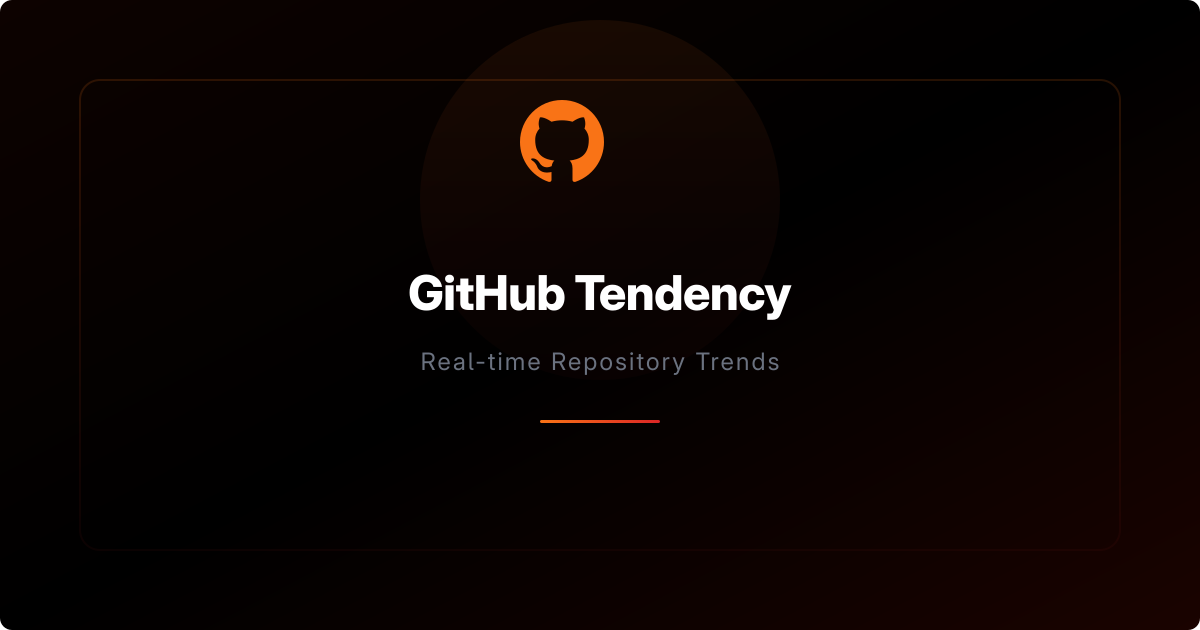
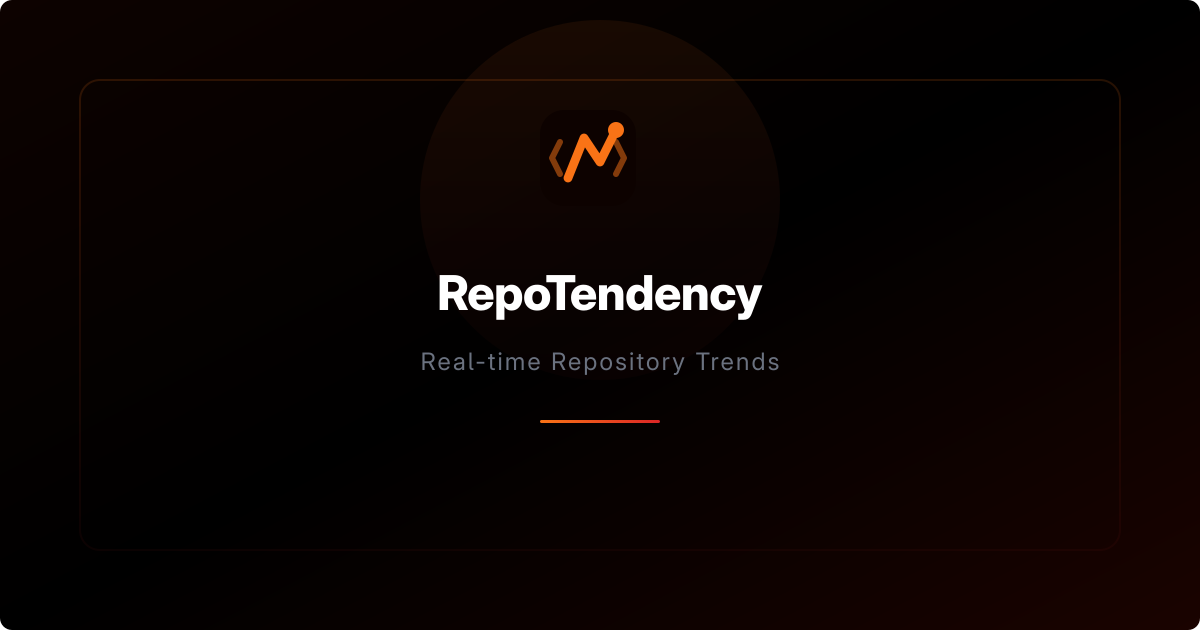
Changing identity

Changed region(s): [[0.3392, 0.4222, 0.6783, 0.5127], [0.4317, 0.1508, 0.5242, 0.3016]]

diff --git a/src/components/Footer.tsx b/src/components/Footer.tsx
@@ -7,10 +7,14 @@ export default function Footer() {
         <div className="grid grid-cols-1 md:grid-cols-3 gap-8">
           <div>
             <div className="flex items-center gap-2 mb-3">
-              <svg viewBox="0 0 24 24" className="w-5 h-5 fill-orange-500" aria-hidden="true">
-                <path d="M12 0C5.374 0 0 5.373 0 12c0 5.302 3.438 9.8 8.207 11.387.599.111.793-.261.793-.577v-2.234c-3.338.726-4.033-1.416-4.033-1.416-.546-1.387-1.333-1.756-1.333-1.756-1.089-.745.083-.729.083-.729 1.205.084 1.839 1.237 1.839 1.237 1.07 1.834 2.807 1.304 3.492.997.107-.775.418-1.305.762-1.604-2.665-.305-5.467-1.334-5.467-5.931 0-1.311.469-2.381 1.236-3.221-.124-.303-.535-1.524.117-3.176 0 0 1.008-.322 3.301 1.23A11.509 11.509 0 0112 5.803c1.02.005 2.047.138 3.006.404 2.291-1.552 3.297-1.23 3.297-1.23.653 1.653.242 2.874.118 3.176.77.84 1.235 1.911 1.235 3.221 0 4.609-2.807 5.624-5.479 5.921.43.372.823 1.102.823 2.222v3.293c0 .319.192.694.801.576C20.566 21.797 24 17.3 24 12c0-6.627-5.373-12-12-12z" />
+              <svg viewBox="0 0 24 24" className="w-5 h-5" aria-hidden="true">
+                <rect width="24" height="24" rx="6" fill="#0d0200"/>
+                <path d="M7 17L11 7L15 13L19 5" stroke="#f97316" strokeWidth="2.2" strokeLinecap="round" strokeLinejoin="round" fill="none"/>
+                <circle cx="19" cy="5" r="2" fill="#f97316"/>
+                <path d="M5 8L3 12L5 16" stroke="#f97316" strokeWidth="1.5" strokeLinecap="round" strokeLinejoin="round" fill="none" opacity="0.5"/>
+                <path d="M19 8L21 12L19 16" stroke="#f97316" strokeWidth="1.5" strokeLinecap="round" strokeLinejoin="round" fill="none" opacity="0.5"/>
               </svg>
-              <span className="font-semibold text-orange-500">GitHub Tendency</span>
+              <span className="font-semibold text-orange-500">RepoTendency</span>
             </div>
             <p className="text-gray-500 text-sm leading-relaxed">
               Real-time GitHub repository trends and analytics. Track what's hot in the open-source world.
@@ -38,7 +42,7 @@ export default function Footer() {
 
         <div className="border-t border-gray-800/50 mt-8 pt-6 flex flex-col sm:flex-row justify-between items-center gap-4">
           <p className="text-gray-600 text-xs">
-            &copy; {new Date().getFullYear()} GitHub Tendency. Built for the open-source community.
+            &copy; {new Date().getFullYear()} RepoTendency. Built for the open-source community.
           </p>
           <div className="flex items-center gap-4 text-gray-600 text-xs">
             <span>Data refreshed hourly via cron</span>

diff --git a/src/App.tsx b/src/App.tsx
@@ -89,10 +89,14 @@ function App() {
     <div className="min-h-screen text-gray-100 flex flex-col">
       <nav className="bg-black/50 backdrop-blur-xl border-b border-orange-900/30 px-4 sm:px-6 py-3 flex items-center gap-3 sm:gap-6 sticky top-0 z-50 flex-wrap">
         <h1 className="text-base sm:text-lg font-bold text-orange-500 flex items-center gap-2 shrink-0">
-          <svg viewBox="0 0 24 24" className="w-5 h-5 sm:w-6 sm:h-6 fill-current" aria-hidden="true">
-            <path d="M12 0C5.374 0 0 5.373 0 12c0 5.302 3.438 9.8 8.207 11.387.599.111.793-.261.793-.577v-2.234c-3.338.726-4.033-1.416-4.033-1.416-.546-1.387-1.333-1.756-1.333-1.756-1.089-.745.083-.729.083-.729 1.205.084 1.839 1.237 1.839 1.237 1.07 1.834 2.807 1.304 3.492.997.107-.775.418-1.305.762-1.604-2.665-.305-5.467-1.334-5.467-5.931 0-1.311.469-2.381 1.236-3.221-.124-.303-.535-1.524.117-3.176 0 0 1.008-.322 3.301 1.23A11.509 11.509 0 0112 5.803c1.02.005 2.047.138 3.006.404 2.291-1.552 3.297-1.23 3.297-1.23.653 1.653.242 2.874.118 3.176.77.84 1.235 1.911 1.235 3.221 0 4.609-2.807 5.624-5.479 5.921.43.372.823 1.102.823 2.222v3.293c0 .319.192.694.801.576C20.566 21.797 24 17.3 24 12c0-6.627-5.373-12-12-12z" />
+          <svg viewBox="0 0 24 24" className="w-5 h-5 sm:w-6 sm:h-6" aria-hidden="true">
+            <rect width="24" height="24" rx="6" fill="#0d0200"/>
+            <path d="M7 17L11 7L15 13L19 5" stroke="#f97316" strokeWidth="2.2" strokeLinecap="round" strokeLinejoin="round" fill="none"/>
+            <circle cx="19" cy="5" r="2" fill="#f97316"/>
+            <path d="M5 8L3 12L5 16" stroke="#f97316" strokeWidth="1.5" strokeLinecap="round" strokeLinejoin="round" fill="none" opacity="0.5"/>
+            <path d="M19 8L21 12L19 16" stroke="#f97316" strokeWidth="1.5" strokeLinecap="round" strokeLinejoin="round" fill="none" opacity="0.5"/>
           </svg>
-          <span className="hidden sm:inline">GitHub Tendency</span>
+          <span className="hidden sm:inline">RepoTendency</span>
         </h1>
         <NavLink to="/" end className={({ isActive }) => `text-sm sm:text-base pb-1 border-b-2 transition-colors ${isActive ? 'text-white border-orange-500' : 'text-gray-500 hover:text-orange-400 border-transparent'}`}>
           Dashboard

diff --git a/src/components/WelcomeModal.tsx b/src/components/WelcomeModal.tsx
@@ -10,12 +10,16 @@ export default function WelcomeModal({ onDismiss }: WelcomeModalProps) {
       <div className="w-full max-w-lg my-auto bg-black/80 backdrop-blur-2xl rounded-2xl border border-orange-500/20 shadow-2xl shadow-orange-600/10 p-6 sm:p-8 animate-fade-up">
         <div className="flex items-center gap-3 mb-4">
           <div className="w-10 h-10 rounded-xl bg-orange-500/10 border border-orange-500/20 flex items-center justify-center">
-            <svg viewBox="0 0 24 24" className="w-6 h-6 fill-orange-500" aria-hidden="true">
-              <path d="M12 0C5.374 0 0 5.373 0 12c0 5.302 3.438 9.8 8.207 11.387.599.111.793-.261.793-.577v-2.234c-3.338.726-4.033-1.416-4.033-1.416-.546-1.387-1.333-1.756-1.333-1.756-1.089-.745.083-.729.083-.729 1.205.084 1.839 1.237 1.839 1.237 1.07 1.834 2.807 1.304 3.492.997.107-.775.418-1.305.762-1.604-2.665-.305-5.467-1.334-5.467-5.931 0-1.311.469-2.381 1.236-3.221-.124-.303-.535-1.524.117-3.176 0 0 1.008-.322 3.301 1.23A11.509 11.509 0 0112 5.803c1.02.005 2.047.138 3.006.404 2.291-1.552 3.297-1.23 3.297-1.23.653 1.653.242 2.874.118 3.176.77.84 1.235 1.911 1.235 3.221 0 4.609-2.807 5.624-5.479 5.921.43.372.823 1.102.823 2.222v3.293c0 .319.192.694.801.576C20.566 21.797 24 17.3 24 12c0-6.627-5.373-12-12-12z" />
+            <svg viewBox="0 0 24 24" className="w-6 h-6" aria-hidden="true">
+              <rect width="24" height="24" rx="6" fill="#0d0200"/>
+              <path d="M7 17L11 7L15 13L19 5" stroke="#f97316" strokeWidth="2.2" strokeLinecap="round" strokeLinejoin="round" fill="none"/>
+              <circle cx="19" cy="5" r="2" fill="#f97316"/>
+              <path d="M5 8L3 12L5 16" stroke="#f97316" strokeWidth="1.5" strokeLinecap="round" strokeLinejoin="round" fill="none" opacity="0.5"/>
+              <path d="M19 8L21 12L19 16" stroke="#f97316" strokeWidth="1.5" strokeLinecap="round" strokeLinejoin="round" fill="none" opacity="0.5"/>
             </svg>
           </div>
           <h2 className="text-xl sm:text-2xl font-bold bg-gradient-to-r from-orange-500 to-red-500 bg-clip-text text-transparent">
-            Welcome to GitHub Tendency
+            Welcome to RepoTendency
           </h2>
         </div>
 

diff --git a/index.html b/index.html
@@ -7,22 +7,22 @@
     <meta name="viewport" content="width=device-width, initial-scale=1.0" />
     <meta name="description" content="Track trending GitHub repositories in real-time. Monitor stars, forks, languages, and keywords across the open-source ecosystem." />
     <meta name="robots" content="index, follow" />
-    <link rel="canonical" href="https://github-tendency.vercel.app/" />
+    <link rel="canonical" href="https://repotendency.pro/" />
 
-    <meta property="og:title" content="GitHub Tendency — Real-time Repository Trends" />
+    <meta property="og:title" content="RepoTendency — Real-time Repository Trends" />
     <meta property="og:description" content="Track trending GitHub repositories in real-time. Monitor stars, forks, languages, and keywords across the open-source ecosystem." />
-    <meta property="og:url" content="https://github-tendency.vercel.app/" />
+    <meta property="og:url" content="https://repotendency.pro/" />
     <meta property="og:type" content="website" />
-    <meta property="og:image" content="https://github-tendency.vercel.app/og-image.png" />
+    <meta property="og:image" content="https://repotendency.pro/og-image.png" />
     <meta property="og:image:width" content="1200" />
     <meta property="og:image:height" content="630" />
 
     <meta name="twitter:card" content="summary_large_image" />
-    <meta name="twitter:title" content="GitHub Tendency — Real-time Repository Trends" />
+    <meta name="twitter:title" content="RepoTendency — Real-time Repository Trends" />
     <meta name="twitter:description" content="Track trending GitHub repositories in real-time. Monitor stars, forks, languages, and keywords across the open-source ecosystem." />
-    <meta name="twitter:image" content="https://github-tendency.vercel.app/og-image.png" />
+    <meta name="twitter:image" content="https://repotendency.pro/og-image.png" />
 
-    <title>GitHub Tendency — Real-time Repository Trends</title>
+    <title>RepoTendency — Real-time Repository Trends</title>
   </head>
   <body>
     <div id="root"></div>

diff --git a/src/pages/Dashboard.tsx b/src/pages/Dashboard.tsx
@@ -48,7 +48,7 @@ function CustomTooltip({ active, payload, label }: { active?: boolean; payload?:
   return null
 }
 
-const WELCOME_KEY = 'github-tendency-welcome-dismissed-at'
+const WELCOME_KEY = 'repotendency-welcome-dismissed-at'
 const WELCOME_INTERVAL_DAYS = 1
 
 function shouldShowWelcome(): boolean {
@@ -171,9 +171,9 @@ export default function Dashboard() {
     <div className="space-y-6 pb-8">
       {showWelcome && <WelcomeModal onDismiss={dismissWelcome} />}
       <Helmet>
-        <title>Dashboard — GitHub Tendency</title>
-        <meta property="og:title" content="Dashboard — GitHub Tendency" />
-        <meta name="twitter:title" content="Dashboard — GitHub Tendency" />
+        <title>Dashboard — RepoTendency</title>
+        <meta property="og:title" content="Dashboard — RepoTendency" />
+        <meta name="twitter:title" content="Dashboard — RepoTendency" />
       </Helmet>
       <div className="flex items-center gap-4">
         <div className="h-8 w-1 bg-gradient-to-b from-orange-500 to-red-600 rounded-full" />

diff --git a/src/pages/Login.tsx b/src/pages/Login.tsx
@@ -18,7 +18,7 @@ export default function Login() {
     setIsSubmitting(true)
     try {
       await login(email, password)
-      navigate('/home')
+      navigate('/tracking')
     } catch (err) {
       setError(err instanceof Error ? err.message : 'Login failed')
     } finally {
@@ -29,7 +29,7 @@ export default function Login() {
   return (
     <div className="max-w-md mx-auto">
       <Helmet>
-        <title>Login — GitHub Tendency</title>
+        <title>Login — RepoTendency</title>
       </Helmet>
       <div className="bg-black/40 backdrop-blur-2xl rounded-2xl p-6 sm:p-8 border border-white/[0.06]">
         <h2 className="text-2xl font-bold text-orange-500 mb-2">Login</h2>

diff --git a/src/pages/Search.tsx b/src/pages/Search.tsx
@@ -37,9 +37,9 @@ export default function Search() {
   return (
     <div>
       <Helmet>
-        <title>Search — GitHub Tendency</title>
-        <meta property="og:title" content="Search — GitHub Tendency" />
-        <meta name="twitter:title" content="Search — GitHub Tendency" />
+        <title>Search — RepoTendency</title>
+        <meta property="og:title" content="Search — RepoTendency" />
+        <meta name="twitter:title" content="Search — RepoTendency" />
       </Helmet>
       <h2 className="text-2xl sm:text-3xl font-bold mb-6 text-orange-500">Search Repositories</h2>
       <form onSubmit={handleSubmit} className="flex flex-col sm:flex-row gap-3 mb-6">

diff --git a/src/pages/UserConfig.tsx b/src/pages/UserConfig.tsx
@@ -289,9 +289,9 @@ export default function UserConfig() {
   return (
     <div className="space-y-6 max-w-2xl mx-auto">
       <Helmet>
-        <title>Account Settings — GitHub Tendency</title>
-        <meta property="og:title" content="Account Settings — GitHub Tendency" />
-        <meta name="twitter:title" content="Account Settings — GitHub Tendency" />
+        <title>Account Settings — RepoTendency</title>
+        <meta property="og:title" content="Account Settings — RepoTendency" />
+        <meta name="twitter:title" content="Account Settings — RepoTendency" />
       </Helmet>
 
       <div className="flex items-center gap-4 justify-center">

diff --git a/src/pages/Home.tsx b/src/pages/Home.tsx
@@ -840,9 +840,9 @@ export default function Home() {
   return (
     <div className="space-y-6">
       <Helmet>
-        <title>Tracking — GitHub Tendency</title>
-        <meta property="og:title" content="Tracking — GitHub Tendency" />
-        <meta name="twitter:title" content="Tracking — GitHub Tendency" />
+        <title>Tracking — RepoTendency</title>
+        <meta property="og:title" content="Tracking — RepoTendency" />
+        <meta name="twitter:title" content="Tracking — RepoTendency" />
       </Helmet>
 
       <div className="flex items-center gap-4">

diff --git a/src/pages/Trends.tsx b/src/pages/Trends.tsx
@@ -95,9 +95,9 @@ export default function Trends() {
   return (
     <div>
       <Helmet>
-        <title>Trends — GitHub Tendency</title>
-        <meta property="og:title" content="Trends — GitHub Tendency" />
-        <meta name="twitter:title" content="Trends — GitHub Tendency" />
+        <title>Trends — RepoTendency</title>
+        <meta property="og:title" content="Trends — RepoTendency" />
+        <meta name="twitter:title" content="Trends — RepoTendency" />
       </Helmet>
 
       <div className="flex flex-col gap-4 mb-6">

diff --git a/src/pages/Register.tsx b/src/pages/Register.tsx
@@ -45,7 +45,7 @@ export default function Register() {
   return (
     <div className="max-w-md mx-auto">
       <Helmet>
-        <title>Register — GitHub Tendency</title>
+        <title>Register — RepoTendency</title>
       </Helmet>
       <div className="bg-black/40 backdrop-blur-2xl rounded-2xl p-6 sm:p-8 border border-white/[0.06]">
         <h2 className="text-2xl font-bold text-orange-500 mb-2">Create account</h2>

diff --git a/src/pages/VerifyEmail.tsx b/src/pages/VerifyEmail.tsx
@@ -32,7 +32,7 @@ export default function VerifyEmail() {
   return (
     <div className="max-w-md mx-auto">
       <Helmet>
-        <title>Verify Email — GitHub Tendency</title>
+        <title>Verify Email — RepoTendency</title>
       </Helmet>
       <div className="bg-black/40 backdrop-blur-2xl rounded-2xl p-6 sm:p-8 border border-white/[0.06] text-center">
         {status === 'loading' && (
